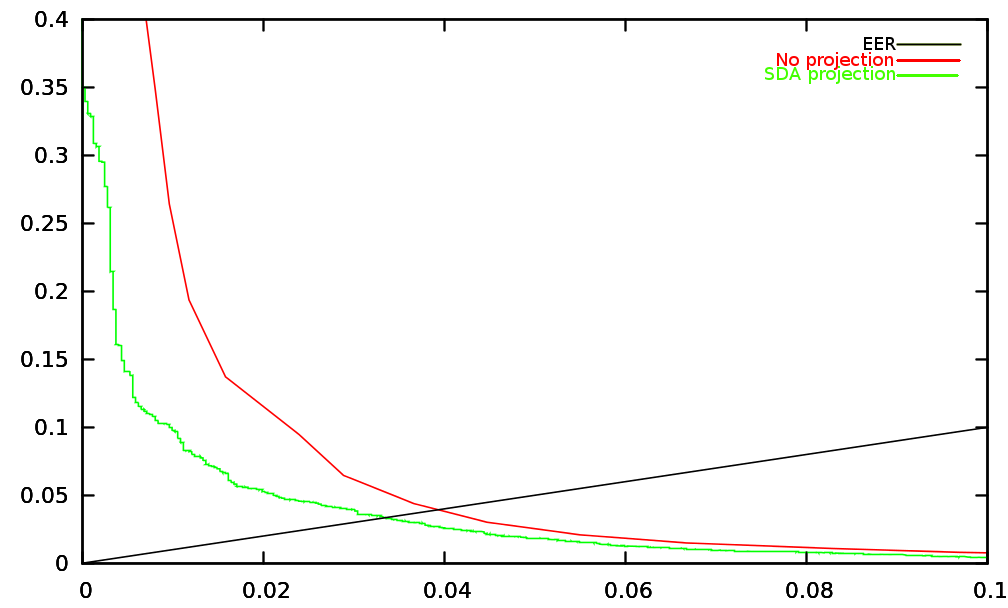
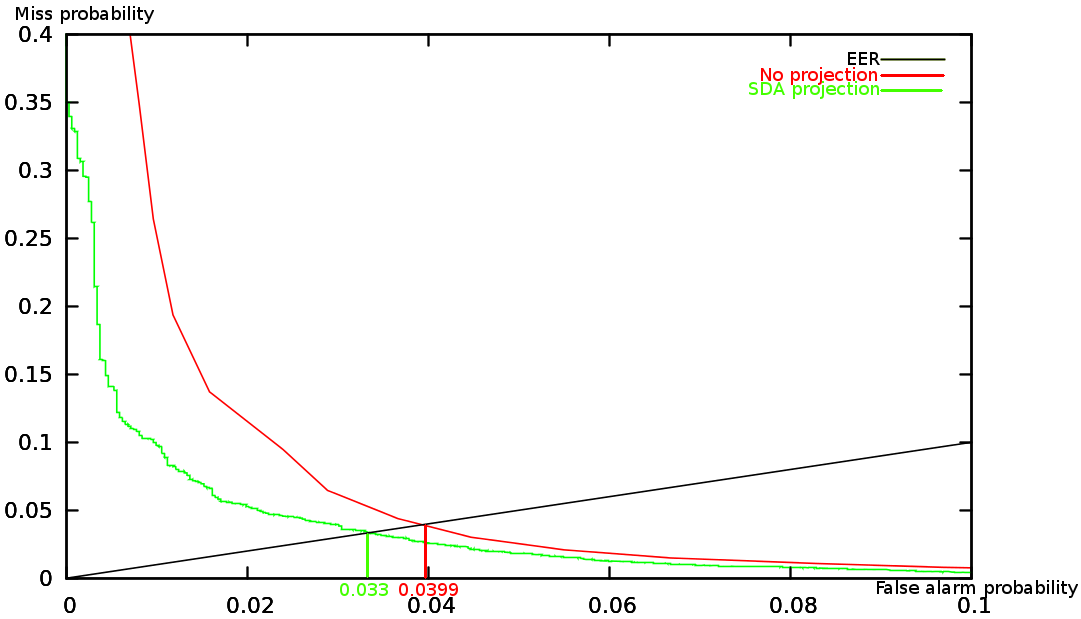
fix det curves

diff --git a/final_report/final_report.tex b/final_report/final_report.tex
@@ -670,7 +670,12 @@ where $C_{Miss}$ and $C_{FalseAlarm}$ are respectively the associated
 costs to a miss and a false-alarm error. The $P_{Target}$ is the
 probability to have a true access.
 
-%TODO: add DET curves
+\begin{figure}[H]
+  \centering
+  \includegraphics[width=450px]{det_curves}
+  \caption{DET curves.}
+  \label{lda}
+\end{figure}
 
 \section{Discuss}
 %TODO: Previous work, Related work, future work
